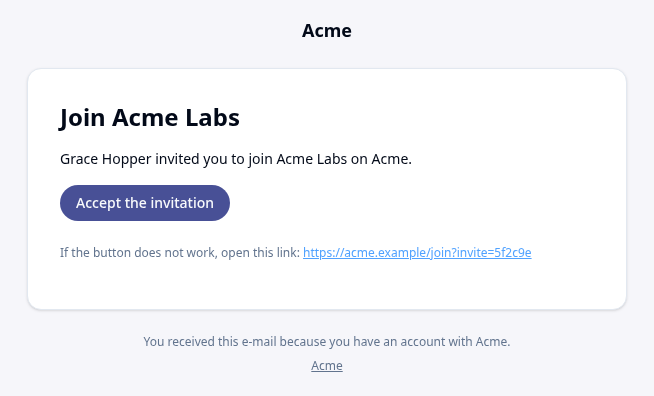
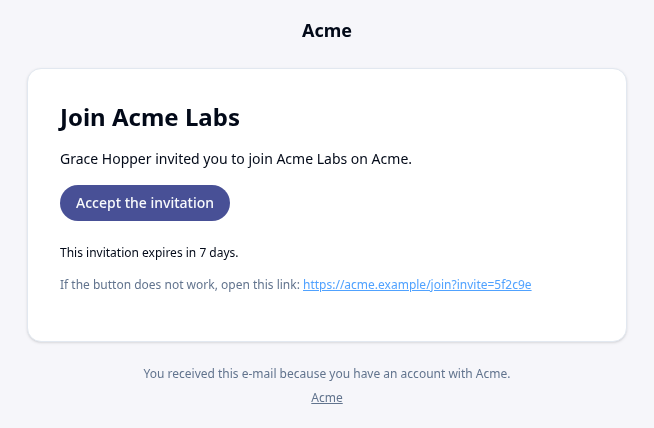
feat(mail-presets): Require expiresIn in invitation too
invitation says "This invitation expires in {{ expiresIn }}." / "Cette
invitation expire dans {{ expiresIn }}." under its button, from a new
invitation.expires key. The unreleased 0.2.0 changeset now names five
e-mails; the guide no longer says invitation takes no expiresIn.

diff --git a/packages/mail-presets/samples/fr/invitation.html b/packages/mail-presets/samples/fr/invitation.html
@@ -9,4 +9,4 @@
       <w:DontUseAdvancedTypographyReadingMail />
     </w:WordDocument>
   </xml>
-<![endif]--></span><div role="article" aria-roledescription="email" lang="fr" dir="ltr" style="font-size: medium; font-size: max(16px, 1rem)"> <table role="presentation" cellpadding="0" cellspacing="0" style="width: 100%; background-color: #f6f6fa; font-family: ui-sans-serif, system-ui, -apple-system, BlinkMacSystemFont, 'Segoe UI', Roboto, 'Noto Sans', Ubuntu, Cantarell, 'Helvetica Neue', sans-serif;"><tr><td align="center" style="padding: 32px 16px;"><!--[if mso]><table role="none" cellpadding="0" cellspacing="0" style="width: 600px" align="center"><tr><td><![endif]--> <div style="margin: 0 auto; max-width: 600px;"><table role="presentation" cellpadding="0" cellspacing="0" style="width: 100%;"><tr><td style="padding-bottom: 24px; text-align: center;"><a href="https://acme.example" style="font-size: 18px; line-height: 28px; font-weight: 600; color: #020918; color: lab(2.35721% .367686 -8.51797); text-decoration: none;">Acme</a></td></tr> <tr><td style="border-radius: 14px; border-color: #e2e8f0; border-style: solid; border-width: 1px; border-color: lab(91.7353% -.998765 -4.76968); background-color: #fff; background-color: lab(100% 0 0); padding: 32px; font-size: 14px; line-height: 20px; color: #020618; color: lab(1.76974% 1.32743 -9.28855); box-shadow: 0 0 rgba(0, 0, 0, 0), 0 0 rgba(0, 0, 0, 0), 0 0 rgba(0, 0, 0, 0), 0 0 rgba(0, 0, 0, 0), 0 1px 3px rgba(0, 0, 0, .1), 0 1px 2px -1px rgba(0, 0, 0, .1);"><h1 style="margin: 0 0 16px; font-size: 24px; line-height: 32px; font-weight: 600; color: #020918; color: lab(2.35721% .367686 -8.51797);">Rejoignez {{ organization }}</h1> <p style="margin: 0 0 16px; font-size: 14px; line-height: 20px; color: #020918; color: lab(2.35721% .367686 -8.51797);">{{ inviter }} vous invite à rejoindre {{ organization }} sur Acme.</p> <div><a style="display: inline-block; border-radius: 9999px; background-color: #485096; background-color: lab(36.0601% 12.8744 -40.3318); padding: 10px 16px; font-family: ui-sans-serif, system-ui, -apple-system, BlinkMacSystemFont, 'Segoe UI', Roboto, 'Noto Sans', Ubuntu, Cantarell, 'Helvetica Neue', sans-serif; font-size: 14px; line-height: 16px; font-weight: 500; color: #f8fafc; color: lab(98.1434% -.369519 -1.05966); text-decoration: none;" href="{{ link }}"><!--[if mso]><i style="mso-font-width: 114%; mso-text-raise: 19px;" hidden>&emsp;</i><![endif]--> <span style="mso-text-raise: 10px;">Accepter l'invitation</span> <!--[if mso]><i style="mso-font-width: 114%;" hidden>&emsp;&#8203;</i><![endif]--></a></div> <div role="separator" style="line-height: 24px;">&zwj;</div> <p style="margin: 0 0 16px; font-size: 12px; line-height: 16px; color: #62748e; color: lab(48.0876% -2.03595 -16.5814);">Si le bouton ne fonctionne pas, ouvrez ce lien&nbsp;: <a href="{{ link }}" style="color: #54a2ff; color: lab(65.0361% -1.42065 -56.9802); text-decoration: underline;">{{ link }}</a></p></td></tr> <tr><td style="padding-left: 24px; padding-right: 24px; padding-top: 24px; text-align: center; font-size: 12px; line-height: 16px; color: #62748e; color: lab(48.0876% -2.03595 -16.5814);"><p style="margin: 0 0 8px;">Vous recevez cet e-mail parce que vous avez un compte chez Acme.</p> <p style="margin: 0;"><a href="https://acme.example" style="color: #62748e; color: lab(48.0876% -2.03595 -16.5814); text-decoration: underline;">Acme</a></p></td></tr></table></div> <!--[if mso]></td></tr></table><![endif]--></td></tr></table></div></body></html>
+<![endif]--></span><div role="article" aria-roledescription="email" lang="fr" dir="ltr" style="font-size: medium; font-size: max(16px, 1rem)"> <table role="presentation" cellpadding="0" cellspacing="0" style="width: 100%; background-color: #f6f6fa; font-family: ui-sans-serif, system-ui, -apple-system, BlinkMacSystemFont, 'Segoe UI', Roboto, 'Noto Sans', Ubuntu, Cantarell, 'Helvetica Neue', sans-serif;"><tr><td align="center" style="padding: 32px 16px;"><!--[if mso]><table role="none" cellpadding="0" cellspacing="0" style="width: 600px" align="center"><tr><td><![endif]--> <div style="margin: 0 auto; max-width: 600px;"><table role="presentation" cellpadding="0" cellspacing="0" style="width: 100%;"><tr><td style="padding-bottom: 24px; text-align: center;"><a href="https://acme.example" style="font-size: 18px; line-height: 28px; font-weight: 600; color: #020918; color: lab(2.35721% .367686 -8.51797); text-decoration: none;">Acme</a></td></tr> <tr><td style="border-radius: 14px; border-color: #e2e8f0; border-style: solid; border-width: 1px; border-color: lab(91.7353% -.998765 -4.76968); background-color: #fff; background-color: lab(100% 0 0); padding: 32px; font-size: 14px; line-height: 20px; color: #020618; color: lab(1.76974% 1.32743 -9.28855); box-shadow: 0 0 rgba(0, 0, 0, 0), 0 0 rgba(0, 0, 0, 0), 0 0 rgba(0, 0, 0, 0), 0 0 rgba(0, 0, 0, 0), 0 1px 3px rgba(0, 0, 0, .1), 0 1px 2px -1px rgba(0, 0, 0, .1);"><h1 style="margin: 0 0 16px; font-size: 24px; line-height: 32px; font-weight: 600; color: #020918; color: lab(2.35721% .367686 -8.51797);">Rejoignez {{ organization }}</h1> <p style="margin: 0 0 16px; font-size: 14px; line-height: 20px; color: #020918; color: lab(2.35721% .367686 -8.51797);">{{ inviter }} vous invite à rejoindre {{ organization }} sur Acme.</p> <div><a style="display: inline-block; border-radius: 9999px; background-color: #485096; background-color: lab(36.0601% 12.8744 -40.3318); padding: 10px 16px; font-family: ui-sans-serif, system-ui, -apple-system, BlinkMacSystemFont, 'Segoe UI', Roboto, 'Noto Sans', Ubuntu, Cantarell, 'Helvetica Neue', sans-serif; font-size: 14px; line-height: 16px; font-weight: 500; color: #f8fafc; color: lab(98.1434% -.369519 -1.05966); text-decoration: none;" href="{{ link }}"><!--[if mso]><i style="mso-font-width: 114%; mso-text-raise: 19px;" hidden>&emsp;</i><![endif]--> <span style="mso-text-raise: 10px;">Accepter l'invitation</span> <!--[if mso]><i style="mso-font-width: 114%;" hidden>&emsp;&#8203;</i><![endif]--></a></div> <div role="separator" style="line-height: 24px;">&zwj;</div> <p style="margin: 0 0 16px; font-size: 12px; line-height: 16px; color: #020918; color: lab(2.35721% .367686 -8.51797);">Cette invitation expire dans {{ expiresIn }}.</p> <p style="margin: 0 0 16px; font-size: 12px; line-height: 16px; color: #62748e; color: lab(48.0876% -2.03595 -16.5814);">Si le bouton ne fonctionne pas, ouvrez ce lien&nbsp;: <a href="{{ link }}" style="color: #54a2ff; color: lab(65.0361% -1.42065 -56.9802); text-decoration: underline;">{{ link }}</a></p></td></tr> <tr><td style="padding-left: 24px; padding-right: 24px; padding-top: 24px; text-align: center; font-size: 12px; line-height: 16px; color: #62748e; color: lab(48.0876% -2.03595 -16.5814);"><p style="margin: 0 0 8px;">Vous recevez cet e-mail parce que vous avez un compte chez Acme.</p> <p style="margin: 0;"><a href="https://acme.example" style="color: #62748e; color: lab(48.0876% -2.03595 -16.5814); text-decoration: underline;">Acme</a></p></td></tr></table></div> <!--[if mso]></td></tr></table><![endif]--></td></tr></table></div></body></html>

diff --git a/packages/mail-presets/samples/en/invitation.html b/packages/mail-presets/samples/en/invitation.html
@@ -9,4 +9,4 @@
       <w:DontUseAdvancedTypographyReadingMail />
     </w:WordDocument>
   </xml>
-<![endif]--></span><div role="article" aria-roledescription="email" lang="en" dir="ltr" style="font-size: medium; font-size: max(16px, 1rem)"> <table role="presentation" cellpadding="0" cellspacing="0" style="width: 100%; background-color: #f6f6fa; font-family: ui-sans-serif, system-ui, -apple-system, BlinkMacSystemFont, 'Segoe UI', Roboto, 'Noto Sans', Ubuntu, Cantarell, 'Helvetica Neue', sans-serif;"><tr><td align="center" style="padding: 32px 16px;"><!--[if mso]><table role="none" cellpadding="0" cellspacing="0" style="width: 600px" align="center"><tr><td><![endif]--> <div style="margin: 0 auto; max-width: 600px;"><table role="presentation" cellpadding="0" cellspacing="0" style="width: 100%;"><tr><td style="padding-bottom: 24px; text-align: center;"><a href="https://acme.example" style="font-size: 18px; line-height: 28px; font-weight: 600; color: #020918; color: lab(2.35721% .367686 -8.51797); text-decoration: none;">Acme</a></td></tr> <tr><td style="border-radius: 14px; border-color: #e2e8f0; border-style: solid; border-width: 1px; border-color: lab(91.7353% -.998765 -4.76968); background-color: #fff; background-color: lab(100% 0 0); padding: 32px; font-size: 14px; line-height: 20px; color: #020618; color: lab(1.76974% 1.32743 -9.28855); box-shadow: 0 0 rgba(0, 0, 0, 0), 0 0 rgba(0, 0, 0, 0), 0 0 rgba(0, 0, 0, 0), 0 0 rgba(0, 0, 0, 0), 0 1px 3px rgba(0, 0, 0, .1), 0 1px 2px -1px rgba(0, 0, 0, .1);"><h1 style="margin: 0 0 16px; font-size: 24px; line-height: 32px; font-weight: 600; color: #020918; color: lab(2.35721% .367686 -8.51797);">Join {{ organization }}</h1> <p style="margin: 0 0 16px; font-size: 14px; line-height: 20px; color: #020918; color: lab(2.35721% .367686 -8.51797);">{{ inviter }} invited you to join {{ organization }} on Acme.</p> <div><a style="display: inline-block; border-radius: 9999px; background-color: #485096; background-color: lab(36.0601% 12.8744 -40.3318); padding: 10px 16px; font-family: ui-sans-serif, system-ui, -apple-system, BlinkMacSystemFont, 'Segoe UI', Roboto, 'Noto Sans', Ubuntu, Cantarell, 'Helvetica Neue', sans-serif; font-size: 14px; line-height: 16px; font-weight: 500; color: #f8fafc; color: lab(98.1434% -.369519 -1.05966); text-decoration: none;" href="{{ link }}"><!--[if mso]><i style="mso-font-width: 114%; mso-text-raise: 19px;" hidden>&emsp;</i><![endif]--> <span style="mso-text-raise: 10px;">Accept the invitation</span> <!--[if mso]><i style="mso-font-width: 114%;" hidden>&emsp;&#8203;</i><![endif]--></a></div> <div role="separator" style="line-height: 24px;">&zwj;</div> <p style="margin: 0 0 16px; font-size: 12px; line-height: 16px; color: #62748e; color: lab(48.0876% -2.03595 -16.5814);">If the button does not work, open this link: <a href="{{ link }}" style="color: #54a2ff; color: lab(65.0361% -1.42065 -56.9802); text-decoration: underline;">{{ link }}</a></p></td></tr> <tr><td style="padding-left: 24px; padding-right: 24px; padding-top: 24px; text-align: center; font-size: 12px; line-height: 16px; color: #62748e; color: lab(48.0876% -2.03595 -16.5814);"><p style="margin: 0 0 8px;">You received this e-mail because you have an account with Acme.</p> <p style="margin: 0;"><a href="https://acme.example" style="color: #62748e; color: lab(48.0876% -2.03595 -16.5814); text-decoration: underline;">Acme</a></p></td></tr></table></div> <!--[if mso]></td></tr></table><![endif]--></td></tr></table></div></body></html>
+<![endif]--></span><div role="article" aria-roledescription="email" lang="en" dir="ltr" style="font-size: medium; font-size: max(16px, 1rem)"> <table role="presentation" cellpadding="0" cellspacing="0" style="width: 100%; background-color: #f6f6fa; font-family: ui-sans-serif, system-ui, -apple-system, BlinkMacSystemFont, 'Segoe UI', Roboto, 'Noto Sans', Ubuntu, Cantarell, 'Helvetica Neue', sans-serif;"><tr><td align="center" style="padding: 32px 16px;"><!--[if mso]><table role="none" cellpadding="0" cellspacing="0" style="width: 600px" align="center"><tr><td><![endif]--> <div style="margin: 0 auto; max-width: 600px;"><table role="presentation" cellpadding="0" cellspacing="0" style="width: 100%;"><tr><td style="padding-bottom: 24px; text-align: center;"><a href="https://acme.example" style="font-size: 18px; line-height: 28px; font-weight: 600; color: #020918; color: lab(2.35721% .367686 -8.51797); text-decoration: none;">Acme</a></td></tr> <tr><td style="border-radius: 14px; border-color: #e2e8f0; border-style: solid; border-width: 1px; border-color: lab(91.7353% -.998765 -4.76968); background-color: #fff; background-color: lab(100% 0 0); padding: 32px; font-size: 14px; line-height: 20px; color: #020618; color: lab(1.76974% 1.32743 -9.28855); box-shadow: 0 0 rgba(0, 0, 0, 0), 0 0 rgba(0, 0, 0, 0), 0 0 rgba(0, 0, 0, 0), 0 0 rgba(0, 0, 0, 0), 0 1px 3px rgba(0, 0, 0, .1), 0 1px 2px -1px rgba(0, 0, 0, .1);"><h1 style="margin: 0 0 16px; font-size: 24px; line-height: 32px; font-weight: 600; color: #020918; color: lab(2.35721% .367686 -8.51797);">Join {{ organization }}</h1> <p style="margin: 0 0 16px; font-size: 14px; line-height: 20px; color: #020918; color: lab(2.35721% .367686 -8.51797);">{{ inviter }} invited you to join {{ organization }} on Acme.</p> <div><a style="display: inline-block; border-radius: 9999px; background-color: #485096; background-color: lab(36.0601% 12.8744 -40.3318); padding: 10px 16px; font-family: ui-sans-serif, system-ui, -apple-system, BlinkMacSystemFont, 'Segoe UI', Roboto, 'Noto Sans', Ubuntu, Cantarell, 'Helvetica Neue', sans-serif; font-size: 14px; line-height: 16px; font-weight: 500; color: #f8fafc; color: lab(98.1434% -.369519 -1.05966); text-decoration: none;" href="{{ link }}"><!--[if mso]><i style="mso-font-width: 114%; mso-text-raise: 19px;" hidden>&emsp;</i><![endif]--> <span style="mso-text-raise: 10px;">Accept the invitation</span> <!--[if mso]><i style="mso-font-width: 114%;" hidden>&emsp;&#8203;</i><![endif]--></a></div> <div role="separator" style="line-height: 24px;">&zwj;</div> <p style="margin: 0 0 16px; font-size: 12px; line-height: 16px; color: #020918; color: lab(2.35721% .367686 -8.51797);">This invitation expires in {{ expiresIn }}.</p> <p style="margin: 0 0 16px; font-size: 12px; line-height: 16px; color: #62748e; color: lab(48.0876% -2.03595 -16.5814);">If the button does not work, open this link: <a href="{{ link }}" style="color: #54a2ff; color: lab(65.0361% -1.42065 -56.9802); text-decoration: underline;">{{ link }}</a></p></td></tr> <tr><td style="padding-left: 24px; padding-right: 24px; padding-top: 24px; text-align: center; font-size: 12px; line-height: 16px; color: #62748e; color: lab(48.0876% -2.03595 -16.5814);"><p style="margin: 0 0 8px;">You received this e-mail because you have an account with Acme.</p> <p style="margin: 0;"><a href="https://acme.example" style="color: #62748e; color: lab(48.0876% -2.03595 -16.5814); text-decoration: underline;">Acme</a></p></td></tr></table></div> <!--[if mso]></td></tr></table><![endif]--></td></tr></table></div></body></html>

diff --git a/scripts/previews.ts b/scripts/previews.ts
@@ -52,6 +52,11 @@ const LINKS: Readonly<Record<string, string>> = {
 	invitation: 'https://acme.example/join?invite=5f2c9e',
 };
 
+/** The `expiresIn` of an e-mail whose token lives longer than `EXAMPLES`' hour, per locale. */
+const EXPIRES_IN: Readonly<Record<string, Readonly<Record<string, string>>>> = {
+	invitation: { en: '7 days', fr: '7 jours' },
+};
+
 /** What the placeholders hold in the previews, per locale. */
 const EXAMPLES: Readonly<Record<string, Readonly<Record<string, string>>>> = {
 	en: {
@@ -132,6 +137,9 @@ function shoot(html: string, locale: string, email: string, out: string): void {
 	const values: Record<string, string | undefined> = {
 		...EXAMPLES[locale],
 		...(LINKS[email] && { link: LINKS[email] }),
+		...(EXPIRES_IN[email]?.[locale] && {
+			expiresIn: EXPIRES_IN[email][locale],
+		}),
 	};
 	const missing = new Set<string>();
 	const filled = html

diff --git a/packages/mail-presets/src/build.spec.ts b/packages/mail-presets/src/build.spec.ts
@@ -87,6 +87,7 @@ describe('the presets, built by a project', () => {
 		const { emails } = JSON.parse(await read('dist/mail-manifest.json'));
 		expect(Object.keys(emails).sort()).toEqual([...PRESETS].sort());
 		expect(emails.invitation.variables).toEqual([
+			'expiresIn',
 			'inviter',
 			'link',
 			'organization',
@@ -103,6 +104,7 @@ describe('the presets, built by a project', () => {
 			.filter((name) => emails[name].variables.includes('expiresIn'))
 			.sort();
 		expect(expiring).toEqual([
+			'invitation',
 			'magic-link',
 			'reset-password',
 			'sign-in-code',
@@ -146,6 +148,7 @@ describe('the presets, built by a project', () => {
 			inviter: 'Grace <script>',
 			organization: 'Analytical & Co',
 			link: 'https://acme.example/join?token=t0k&x=1',
+			expiresIn: '7 days',
 		};
 		const en = mails.render('invitation', variables);
 		expect(en.subject).toBe(

diff --git a/packages/mail-presets/emails/invitation.vue b/packages/mail-presets/emails/invitation.vue
@@ -4,6 +4,7 @@
     <NxTypography>{{ t('invitation.body', { inviter: placeholder('inviter'), organization: placeholder('organization'), brand: brand.name }) }}</NxTypography>
     <NxButton :href="placeholder('link')">{{ t('invitation.action') }}</NxButton>
     <Spacer class="h-6" />
+    <NxTypography variant="body-small">{{ t('invitation.expires', { expiresIn: placeholder('expiresIn') }) }}</NxTypography>
     <NxTypography variant="body-small" class="text-muted-foreground">
       {{ t('presets.linkFallback') }}
       <NxLink :href="placeholder('link')">{{ placeholder('link') }}</NxLink>

diff --git a/packages/mail-presets/docs/guide/emails.md b/packages/mail-presets/docs/guide/emails.md
@@ -39,7 +39,7 @@ export default defineMailConfig({
 | [`magic-link`](#magic-link) | A user signs in with a one-time link | `expiresIn`, `link` | `link` |
 | [`new-sign-in`](#new-sign-in) | An account was signed in from a device not seen before | `device`, `link`, `location`, `name`, `time` | `link` |
 | [`welcome`](#welcome) | An account was just created | `link`, `name` | `link` |
-| [`invitation`](#invitation) | Someone invites the recipient to an organisation | `inviter`, `link`, `organization` | `link` |
+| [`invitation`](#invitation) | Someone invites the recipient to an organisation | `expiresIn`, `inviter`, `link`, `organization` | `link` |
 
 The placeholders are the manifest's `variables`, and the URL ones its
 `urlVariables`: the sender fills a URL one with an `http:` or `https:` URL,
@@ -49,10 +49,11 @@ build time.
 
 ## `expiresIn`: how long the link or the code lives
 
-`verify-email`, `reset-password`, `magic-link` and `sign-in-code` send
-something that stops working after a while, and say so:
-`This link expires in {{ expiresIn }}.` under the button, or
-`This code expires in {{ expiresIn }}.` under the code. `expiresIn` is
+`verify-email`, `reset-password`, `magic-link`, `sign-in-code` and
+`invitation` send something that stops working after a while, and say so:
+`This link expires in {{ expiresIn }}.` under the button,
+`This code expires in {{ expiresIn }}.` under the code, or
+`This invitation expires in {{ expiresIn }}.` under the invitation's button. `expiresIn` is
 required: the server that made the token knows its lifetime, the build does
 not. Pass it as text already written in the recipient's language — the
 renderer writes a value as is and translates nothing:
@@ -74,10 +75,9 @@ To say nothing about expiry, replace the template (see
 argument, because the template still passes it.
 
 The other presets do not take it: `password-changed`, `new-sign-in` and
-`welcome` link to your site, not to a token, and `email-changed` and
-`invitation` say nothing about a lifetime their link may not have. To tell an
-invitation's lifetime, replace `invitation.vue` with your own and pass it as
-a placeholder of yours.
+`welcome` link to your site, not to a token, and `email-changed` says nothing
+about a lifetime its undo link may not have. To tell one, replace
+`email-changed.vue` with your own and pass it as a placeholder of yours.
 
 ## What they share
 
@@ -318,7 +318,8 @@ Placeholders: `name` (in the subject too), `link` (a URL). Samples:
 
 To invite someone — who may have no account yet — to join an organisation.
 A title with the organisation, the body naming who invites, the
-**Accept the invitation** button, and the link as text. No greeting: the
+**Accept the invitation** button, `invitation.expires`, and the link as
+text. No greeting: the
 recipient's name is often unknown.
 
 | Key | `en` | `fr` |
@@ -328,9 +329,10 @@ recipient's name is often unknown.
 | `invitation.title` | Join {organization} | Rejoignez {organization} |
 | `invitation.body` | {inviter} invited you to join {organization} on {brand}. | {inviter} vous invite à rejoindre {organization} sur {brand}. |
 | `invitation.action` | Accept the invitation | Accepter l'invitation |
+| `invitation.expires` | This invitation expires in {expiresIn}. | Cette invitation expire dans {expiresIn}. |
 
 Placeholders: `inviter`, `organization` (both in the subject too), `link`
-(a URL). Samples:
+(a URL), `expiresIn` (a duration, as text: `'7 days'`, `'7 jours'`). Samples:
 [en](https://github.com/softistx/nxgt-mail/blob/develop/packages/mail-presets/samples/en/invitation.html) ·
 [fr](https://github.com/softistx/nxgt-mail/blob/develop/packages/mail-presets/samples/fr/invitation.html).
 

diff --git a/packages/mail-presets/docs/troubleshooting.md b/packages/mail-presets/docs/troubleshooting.md
@@ -183,10 +183,11 @@ It wins over the preset, and this error does not apply to it.
 The message names your locale. The key starts `presets.` or with a preset's
 key (`verifyEmail.`, `signInCode.`, …), or `common.` when the `common` keys
 are missing as well (`i18n: de: common.footer.ignore is missing — …`).
-After an upgrade to 0.2, a catalogue written for 0.1 misses the two keys it
-added, `presets.codeExpires` and `presets.linkExpires`
-(`i18n: de: presets.codeExpires is missing — …`): translate them with the
-`{expiresIn}` argument, as `"Dieser Link läuft in {expiresIn} ab."`.
+After an upgrade to 0.2, a catalogue written for 0.1 misses the keys it
+added: `presets.codeExpires` and `presets.linkExpires`
+(`i18n: de: presets.codeExpires is missing — …`), and `invitation.expires`
+when it builds `invitation`. Translate them with the `{expiresIn}` argument,
+as `"Dieser Link läuft in {expiresIn} ab."`.
 
 **When:** loading `maizzle.config.ts`, when the project builds a locale other
 than `en` and `fr`, such as `locales: ['en', 'de']`.
@@ -375,13 +376,14 @@ These come from `@nxgt/mail`'s renderer, `createMailRenderer` from
 
 An `Error`, from `@nxgt/mail`'s renderer: its
 [`render: <email> needs the variable <key>`](https://github.com/softistx/nxgt-mail/blob/develop/packages/mail/docs/troubleshooting.md#render-email-needs-the-variable-key).
-The e-mail named may be `verify-email`, `reset-password`, `magic-link` or
-`sign-in-code`. Typed with `MailEmails`, the same call does not compile:
+The e-mail named may be `verify-email`, `reset-password`, `magic-link`,
+`sign-in-code` or `invitation`. Typed with `MailEmails`, the same call does not compile:
 `Property 'expiresIn' is missing in type '…' but required in type …`.
 
 **When:** `mails.render(…)`, after an upgrade to 0.2, with the values that
-0.1's e-mails took (`{ name, link }`, `{ code }`).
-**Why:** from 0.2, the four presets whose link or code expires say how long
+0.1's e-mails took (`{ name, link }`, `{ code }`,
+`{ inviter, organization, link }`).
+**Why:** from 0.2, the five presets whose link or code expires say how long
 it lives, `This link expires in {{ expiresIn }}.`, and the server is the one
 that knows.
 **Fix:** pass `expiresIn`, a duration already written in the recipient's

diff --git a/.changeset/presets-expires-in.md b/.changeset/presets-expires-in.md
@@ -2,4 +2,4 @@
 '@nxgt/mail-presets': minor
 ---
 
-**Breaking.** `verify-email`, `reset-password`, `magic-link` and `sign-in-code` take a new required variable, `expiresIn`: how long the link or the code stays valid, a duration your code writes already translated (`'1 hour'`, `'1 heure'`). It is shown under the button as `This link expires in {{ expiresIn }}.` / `Ce lien expire dans {{ expiresIn }}.`, and under the code as `This code expires in {{ expiresIn }}.` / `Ce code expire dans {{ expiresIn }}.`, in the HTML and the text part. The manifest lists it in those e-mails' `variables`, so the generated `MailEmails` requires it: add `expiresIn` to every `render` of these four e-mails, or the call no longer compiles, and throws `render: <email> needs the variable expiresIn` untyped. Two keys join the `presets` group, `presets.linkExpires` and `presets.codeExpires`: a project that builds a locale other than `en` and `fr` translates them, with the `{expiresIn}` argument.
+**Breaking.** `verify-email`, `reset-password`, `magic-link`, `sign-in-code` and `invitation` take a new required variable, `expiresIn`: how long the link or the code stays valid, a duration your code writes already translated (`'1 hour'`, `'1 heure'`). It is shown under the button as `This link expires in {{ expiresIn }}.` / `Ce lien expire dans {{ expiresIn }}.`, under the code as `This code expires in {{ expiresIn }}.` / `Ce code expire dans {{ expiresIn }}.`, and in `invitation` as `This invitation expires in {{ expiresIn }}.` / `Cette invitation expire dans {{ expiresIn }}.`, in the HTML and the text part. The manifest lists it in those e-mails' `variables`, so the generated `MailEmails` requires it: add `expiresIn` to every `render` of these five e-mails, or the call no longer compiles, and throws `render: <email> needs the variable expiresIn` untyped. Two keys join the `presets` group, `presets.linkExpires` and `presets.codeExpires`, and one the `invitation` group, `invitation.expires`: a project that builds a locale other than `en` and `fr` translates them, with the `{expiresIn}` argument.

diff --git a/packages/mail-presets/README.md b/packages/mail-presets/README.md
@@ -111,13 +111,13 @@ manifest:
 | `magic-link` | `expiresIn`, `link` | Your sign-in link |
 | `new-sign-in` | `device`, `link`, `location`, `name`, `time` | New sign-in to your account |
 | `welcome` | `link`, `name` | Welcome, `{{ name }}` |
-| `invitation` | `inviter`, `link`, `organization` | `{{ inviter }}` invited you to join `{{ organization }}` |
+| `invitation` | `expiresIn`, `inviter`, `link`, `organization` | `{{ inviter }}` invited you to join `{{ organization }}` |
 
 `link` is a URL in each of them: the sender fills it with an `http:` or `https:` URL.
 `expiresIn` is how long the link or the code stays valid, already written in
 the recipient's language — `'1 hour'`, `'1 heure'` — shown as
 `This link expires in {{ expiresIn }}.` (`This code expires in …` for
-`sign-in-code`). See [The e-mails](docs/guide/emails.md) for what each one
+`sign-in-code`, `This invitation expires in …` for `invitation`). See [The e-mails](docs/guide/emails.md) for what each one
 says, in both locales, and every message key.
 
 ### Sending one

diff --git a/packages/mail-presets/docs/roadmap.md b/packages/mail-presets/docs/roadmap.md
@@ -6,10 +6,12 @@ are no dates here, and the version something shipped in is the only number.
 ## Now
 
 - **How long a link or a code lives** — `verify-email`, `reset-password`,
-  `magic-link` and `sign-in-code` take a required `expiresIn`, a duration
-  your code writes in the recipient's language (`'1 hour'`, `'1 heure'`), and
-  say `This link expires in {{ expiresIn }}.` or
-  `This code expires in {{ expiresIn }}.`, in the HTML and the text part.
+  `magic-link`, `sign-in-code` and `invitation` take a required `expiresIn`,
+  a duration your code writes in the recipient's language (`'1 hour'`,
+  `'1 heure'`), and say `This link expires in {{ expiresIn }}.`,
+  `This code expires in {{ expiresIn }}.` or
+  `This invitation expires in {{ expiresIn }}.`, in the HTML and the text
+  part.
   Breaking: a send without it no longer compiles against `MailEmails`, and
   throws [`render: <email> needs the variable expiresIn`](troubleshooting.md#render-reset-password-needs-the-variable-expiresin).
   Built, not yet published.
